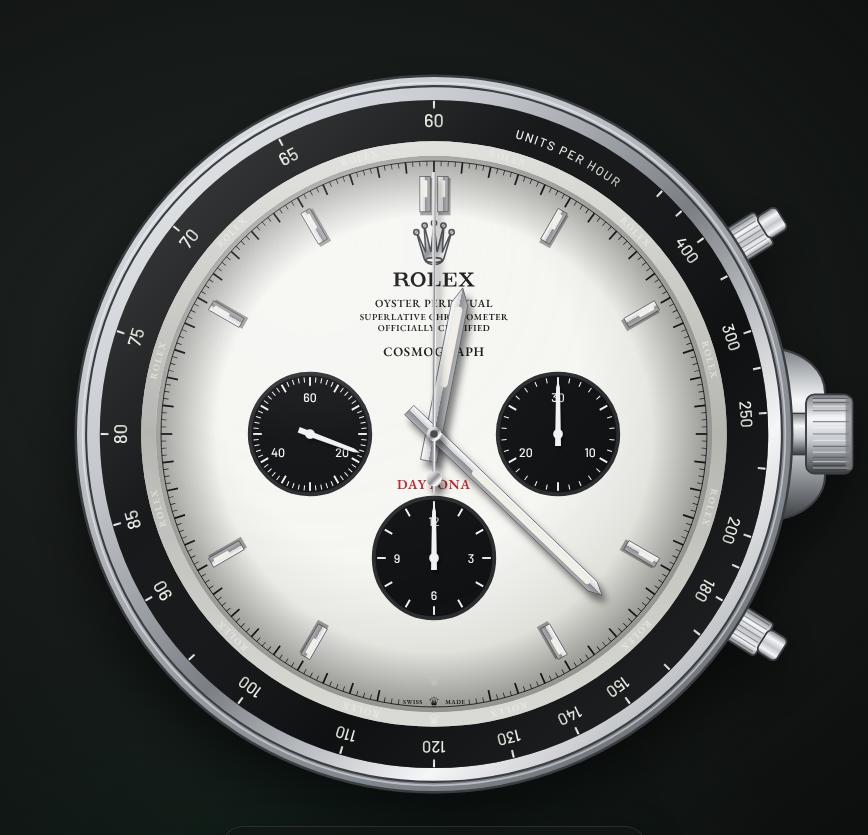
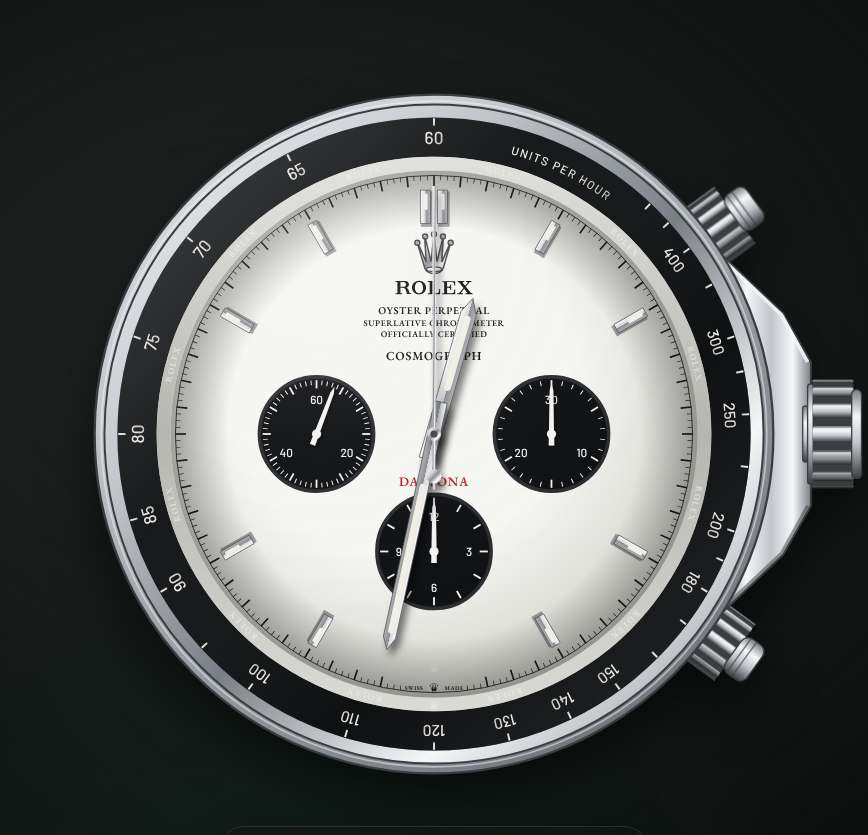
Redraw the crown and Daytona pushers to match the real watch
- Crowns are larger with deep, high-contrast flutes and a domed end.
- Daytona pushers are knurled screw-down collars with round buttons,
  and the crown sits in an angular shoulder between them.

Claude-Session: https://claude.ai/code/session_01MR7uiZKYXyyZxiVebD44dd

diff --git a/js/watch.js b/js/watch.js
@@ -101,32 +101,67 @@
     return s;
   }
 
-  function crownAssembly(metal, guards) {
+  // A knurled cylinder seen side-on, axis along +x from x0 to x1, radius R.
+  // Each flute is its own shaded band, so the grip reads as deep ridges and the
+  // silhouette edges come out toothed, like a real screw-down crown.
+  function knurl(x0, x1, R, metal, flutes) {
     const m = METALS[metal];
-    let s = '';
-    if (guards) {
-      s += `<path d="M196 -50C216 -48 228 -36 227 -22L227 22C228 36 216 48 196 50Z" fill="url(#${metal}-v)" stroke="${m.deep}" stroke-width="1.2"/>`;
+    let s = `<rect x="${x0}" y="${r2(-R * 0.94)}" width="${r2(x1 - x0)}" height="${r2(R * 1.88)}" rx="1.5" fill="${m.deep}"/>`;
+    for (let i = 0; i < flutes; i++) {
+      const t0 = -90 + (i * 180) / flutes, t1 = t0 + 180 / flutes, tm = (t0 + t1) / 2;
+      const y0 = R * Math.sin(rad(t0)), y1 = R * Math.sin(rad(t1));
+      const ya = y0 + (y1 - y0) * 0.18, yb = y1 - (y1 - y0) * 0.18, hgt = yb - ya;
+      const rx = r2(Math.min(1.4, hgt / 2)), w = r2(x1 - x0);
+      // ridges facing the viewer are brightest; the lower half falls into shade
+      const shade = r2(Math.min(0.8, (1 - Math.cos(rad(tm))) * 0.6 + (tm > 0 ? 0.22 : 0)));
+      s += `<rect x="${x0}" y="${r2(ya)}" width="${w}" height="${r2(hgt)}" rx="${rx}" fill="url(#${metal}-v)"/>`;
+      if (shade > 0.02) s += `<rect x="${x0}" y="${r2(ya)}" width="${w}" height="${r2(hgt)}" rx="${rx}" fill="#000" opacity="${shade}"/>`;
+      // polished edge catching the light
+      if (hgt > 2.5) s += `<rect x="${x0 + 0.5}" y="${r2(ya + hgt * 0.12)}" width="${r2(x1 - x0 - 1)}" height="${r2(Math.max(0.6, hgt * 0.16))}" fill="${m.hi}" opacity="${r2(0.85 - shade)}"/>`;
     }
-    const x0 = guards ? 216 : 205, w = 27, h = 46;
-    s += `<rect x="${x0 - 8}" y="-12" width="12" height="24" fill="url(#${metal}-v)" stroke="${m.deep}" stroke-width=".8"/>`;
-    s += `<rect x="${x0}" y="${-h / 2}" width="${w}" height="${h}" rx="5" fill="url(#${metal}-v)" stroke="${m.deep}" stroke-width="1.1"/>`;
-    // knurled grip: ridges run along the crown axis, bunching toward the edges
-    for (let i = 1; i < 18; i++) {
-      const y = r2((h / 2 - 2) * Math.sin(-Math.PI / 2 + (Math.PI * i) / 18));
-      s += `<line x1="${x0 + 4}" x2="${x0 + w - 2}" y1="${y}" y2="${y}" stroke="${i % 2 ? m.deep : m.hi}" stroke-width=".7" opacity=".55"/>`;
-    }
-    s += `<rect x="${x0 + w - 4}" y="${-h / 2 + 2}" width="4" height="${h - 4}" rx="2" fill="${m.lo}" opacity=".7"/>`;
     return s;
   }
 
+  // A smooth cylinder (tube, collar or button) seen side-on, with a rounded outer end.
+  function smoothCyl(x0, x1, R, metal, rx = 2) {
+    const m = METALS[metal];
+    return `<rect x="${x0}" y="${-R}" width="${r2(x1 - x0)}" height="${2 * R}" rx="${rx}" fill="url(#${metal}-v)" stroke="${m.deep}" stroke-width=".8"/>`;
+  }
+
+  function crownAssembly(metal, guards, faceted) {
+    const m = METALS[metal];
+    let s = '';
+    if (faceted) {
+      // Daytona: an angular shoulder that swells out of the case around the crown
+      s += `<path d="M176 -110L214 -74L231 -44L231 44L214 74L176 110Z" fill="url(#${metal}-h)" stroke="${m.deep}" stroke-width="1.2"/>`;
+      s += `<path d="M178 -106L213 -73L229 -44" fill="none" stroke="${m.hi}" stroke-width="2.2" opacity=".85"/>`;
+      s += `<path d="M229 44L213 73L178 106" fill="none" stroke="${m.deep}" stroke-width="2" opacity=".5"/>`;
+    } else if (guards) {
+      s += `<path d="M194 -58C218 -56 230 -42 229 -26L229 26C230 42 218 56 194 58Z" fill="url(#${metal}-v)" stroke="${m.deep}" stroke-width="1.2"/>`;
+    }
+    const R = guards ? 34 : 27;
+    const x0 = faceted ? 229 : guards ? 221 : 207, len = guards ? 28 : 24;
+    s += smoothCyl(x0 - (guards ? 3 : 12), x0 + 1, R * 0.5, metal, 1); // tube into the case
+    s += smoothCyl(x0, x0 + 4, R * 0.9, metal, 1.5);                // collar
+    s += knurl(x0 + 3, x0 + len, R, metal, guards ? 7 : 9);         // fluted grip
+    s += `<rect x="${x0 + len - 1}" y="${r2(-R * 0.8)}" width="6" height="${r2(R * 1.6)}" rx="3" fill="url(#${metal}-v)" stroke="${m.deep}" stroke-width=".8"/>`; // domed end
+    return s;
+  }
+
+  // Daytona screw-down pushers: a knurled collar with a smaller round button.
+  // Drawn along +x and rotated so each points radially out at its angle.
   function pushers(metal) {
     const m = METALS[metal];
-    return [[58, 'start'], [122, 'reset']].map(([a, act]) =>
-      `<g class="pusher" data-action="${act}" transform="rotate(${a})">
-        <rect x="-15" y="-238" width="30" height="34" fill="transparent"/>
-        <rect x="-11" y="-226" width="22" height="22" rx="2" fill="url(#${metal}-h)" stroke="${m.deep}" stroke-width="1"/>
-        ${[...Array(7)].map((_, i) => `<line x1="${-9 + i * 3}" x2="${-9 + i * 3}" y1="-224" y2="-206" stroke="${m.deep}" stroke-width=".6" opacity=".5"/>`).join('')}
-        <rect class="pusher-btn" x="-7.5" y="-238" width="15" height="13" rx="3" fill="url(#${metal}-h)" stroke="${m.deep}" stroke-width="1"/>
+    return [[54, 'start'], [126, 'reset']].map(([a, act]) =>
+      `<g class="pusher" data-action="${act}" transform="rotate(${a - 90})">
+        <rect x="196" y="-26" width="60" height="52" fill="transparent"/>
+        ${smoothCyl(194, 207, 10, metal, 1)}
+        ${knurl(205, 228, 22, metal, 7)}
+        <g class="pusher-btn">
+          ${smoothCyl(227, 243, 13, metal, 5)}
+          <line x1="231" x2="231" y1="-12.5" y2="12.5" stroke="${m.deep}" stroke-width="1" opacity=".6"/>
+          <line x1="235" x2="235" y1="-12.5" y2="12.5" stroke="${m.deep}" stroke-width="1" opacity=".6"/>
+        </g>
       </g>`).join('');
   }
 
@@ -515,14 +550,14 @@
         <feGaussianBlur stdDeviation="2.4" result="b"/><feMerge><feMergeNode in="b"/><feMergeNode in="b"/><feMergeNode in="SourceGraphic"/></feMerge></filter>
     </defs>`;
 
-    let out = `<svg class="watch-svg" viewBox="-252 -252 504 504" xmlns="http://www.w3.org/2000/svg" role="img" aria-label="${model.name} watch face showing the current local time">`;
+    let out = `<svg class="watch-svg" viewBox="-266 -266 532 532" xmlns="http://www.w3.org/2000/svg" role="img" aria-label="${model.name} watch face showing the current local time">`;
     out += defs;
 
 
     // 2. case + crown + pushers
     out += `<g filter="url(#caseShadow)">`;
     if (model.pushers) out += pushers(caseMetal);
-    out += crownAssembly(caseMetal, model.guards);
+    out += crownAssembly(caseMetal, model.guards, model.pushers);
     out += caseBody(caseMetal, {});
     out += `</g>`;
 
@@ -586,7 +621,7 @@
 
     // 7. night: dim everything, then re-draw luminescent parts glowing
     // dim layer follows the watch silhouette so the page background is untouched
-    const silhouette = (model.pushers ? pushers(caseMetal) : '') + crownAssembly(caseMetal, model.guards) + caseBody(caseMetal, {});
+    const silhouette = (model.pushers ? pushers(caseMetal) : '') + crownAssembly(caseMetal, model.guards, model.pushers) + caseBody(caseMetal, {});
     out += `<g class="night-dim">${silhouette.replace(/class="pusher[^"]*"/g, '')}</g>`;
     out += `<g class="lume-layer" filter="url(#lumeGlow)">`;
     out += lumeStatic.join('');

diff --git a/styles.css b/styles.css
@@ -141,7 +141,7 @@ button { font: inherit; color: inherit; cursor: pointer; }
 .watch-svg.dragging .bezel-hit { cursor: grabbing; }
 .watch-svg .pusher { cursor: pointer; }
 .watch-svg .pusher .pusher-btn { transition: transform .12s; }
-.watch-svg .pusher.pressed .pusher-btn { transform: translateY(5px); }
+.watch-svg .pusher.pressed .pusher-btn { transform: translateX(-4px); }
 
 /* night / lume */
 .watch-svg .night-dim { opacity: 0; transition: opacity .9s ease; pointer-events: none; }
